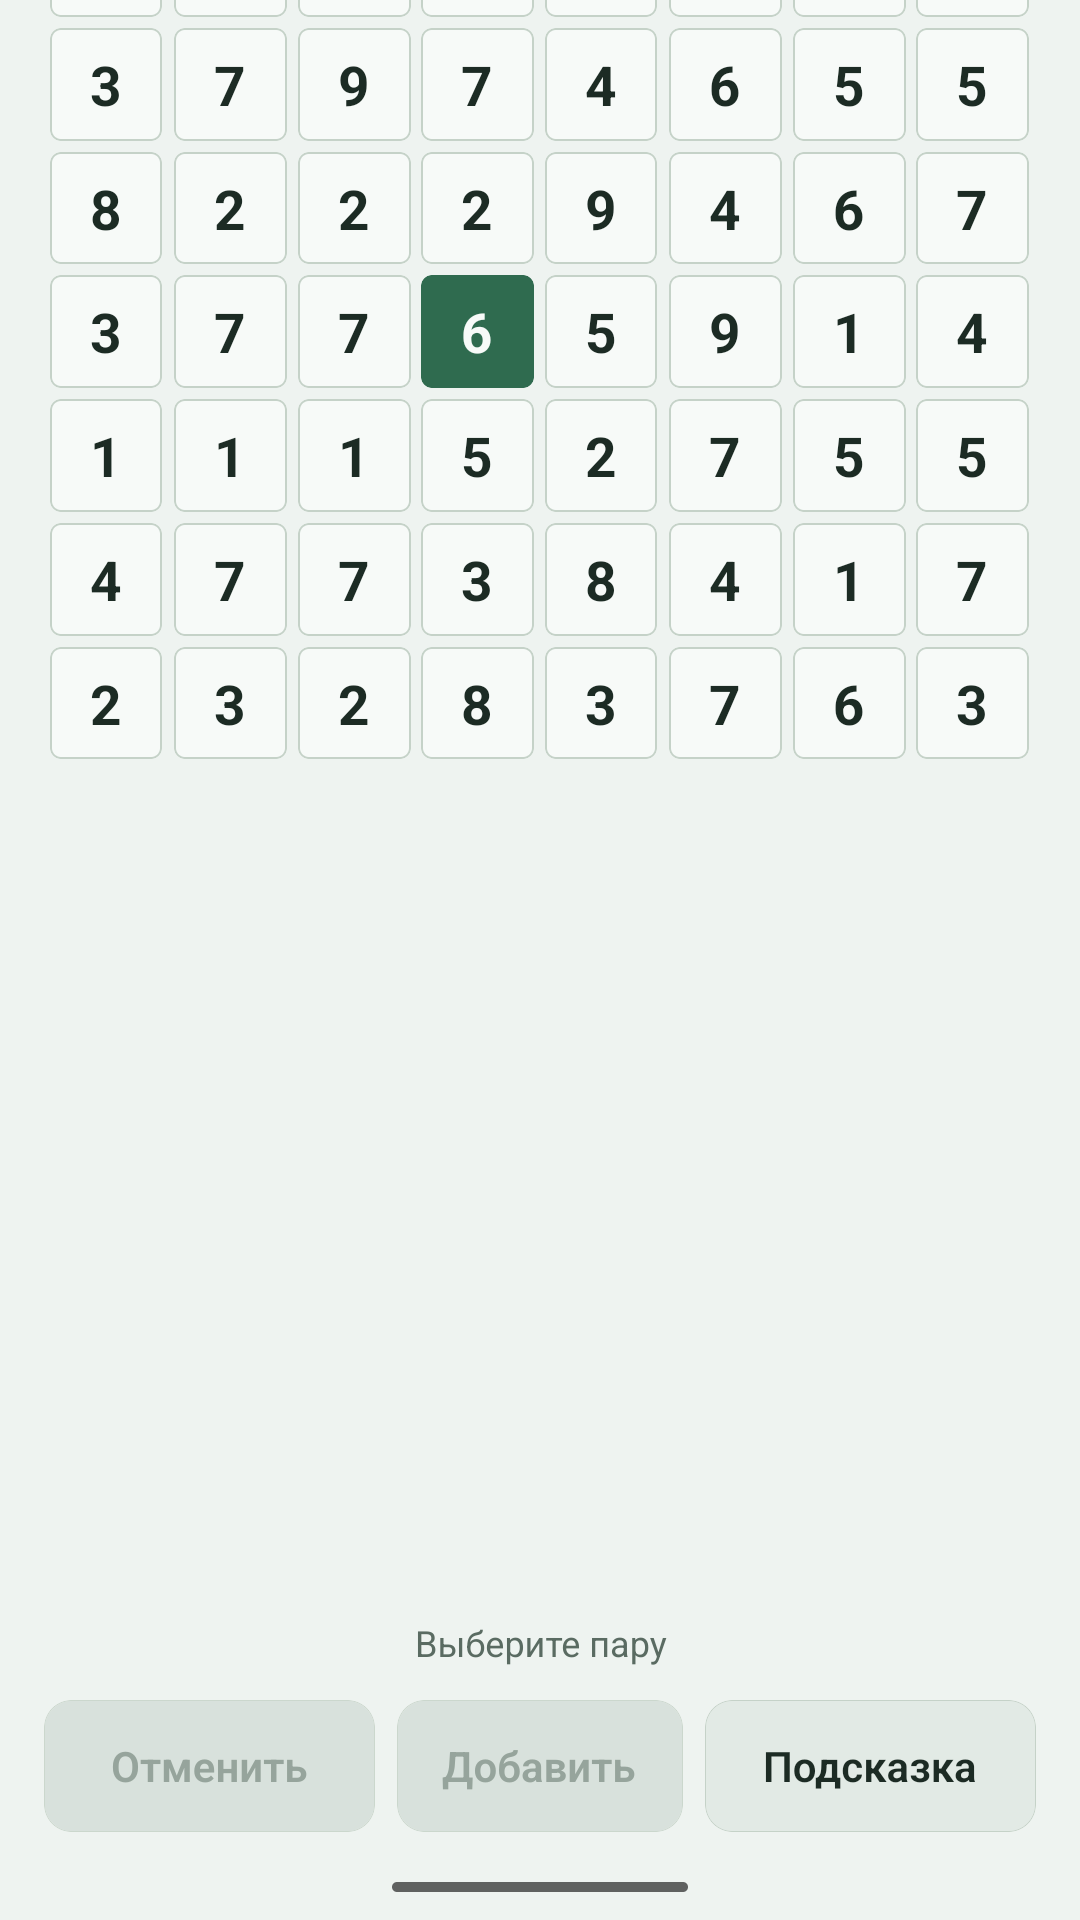
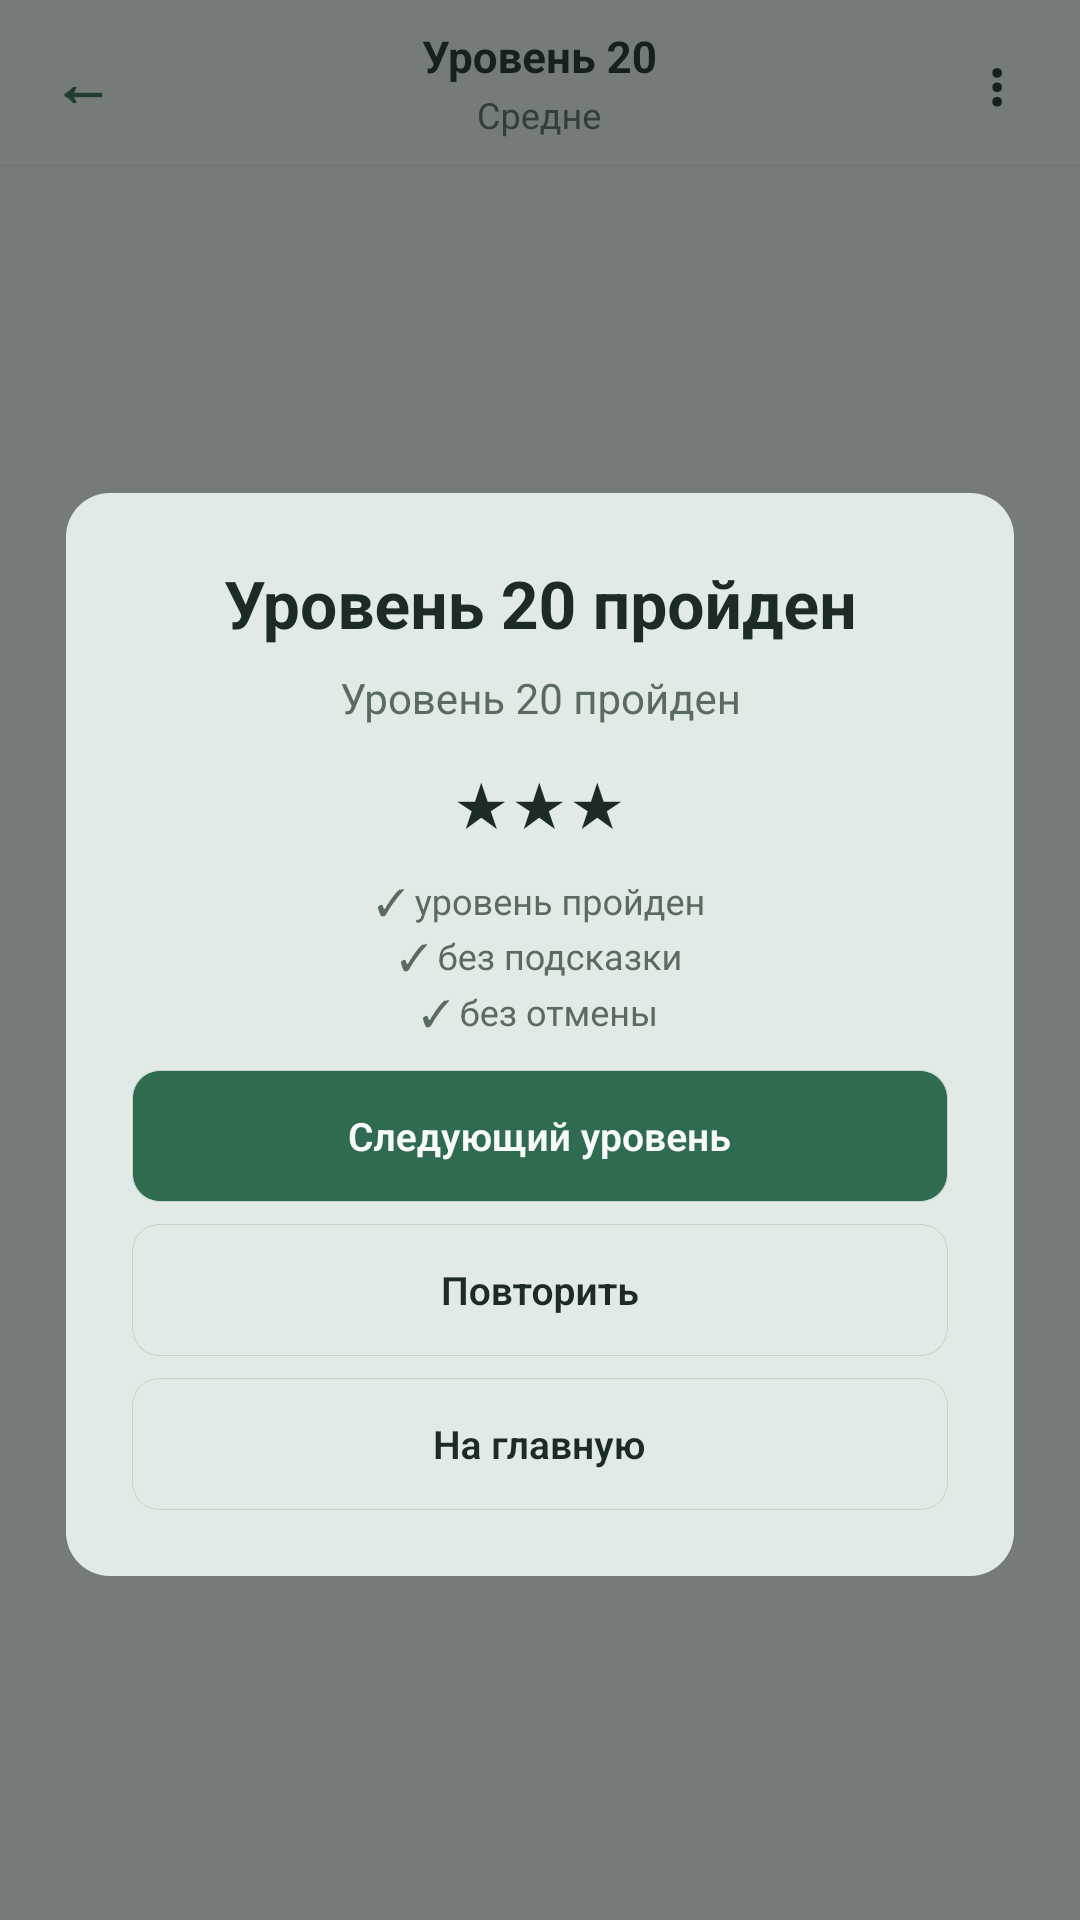
chore(release): genuine completion screenshot and signing path docs
Replace the duplicate match-action capture with a real three-star completion
overlay, refresh Levels near the frontier with star variety, and document
the approved external keystore location for this upload.

diff --git a/store-assets/docs/SIGNING_LOCAL.md b/store-assets/docs/SIGNING_LOCAL.md
@@ -1,23 +1,39 @@
 # Local production signing (outside Git)
 
-Canonical path for this app (create if missing):
+Canonical path for this app (ForestMusic pattern
+`D:\secure\android-signing\<app>\`):
 
 ```text
-D:\PetProject\secure\numberMatchGameRuStore\
+D:\secure\android-signing\numberMatchGame\
   number-match-release.jks
   keystore.properties
+  password.txt
 ```
+
+Do not move or recreate the keystore. Do not copy the JKS into the
+repository. Read `keystore.properties` locally only.
 
 `keystore.properties` keys (values never committed):
 
 ```properties
-storeFile=D:\\PetProject\\secure\\numberMatchGameRuStore\\number-match-release.jks
+storeFile=D:/secure/android-signing/numberMatchGame/number-match-release.jks
 storePassword=***
 keyAlias=number-match
 keyPassword=***
 ```
 
-Wire into generated `android/app/build.gradle` release signingConfig after `npx expo prebuild --platform android`, pointing at this external properties file. Do not commit `android/`, JKS, or properties.
+Alias: `number-match`
+
+Expected certificate SHA-256 (verify after every release AAB):
+
+```text
+25:12:22:BF:98:65:B7:C9:30:4B:0B:12:83:1F:36:59:4C:DB:05:13:02:77:14:5A:F7:1C:A0:30:39:53:07:F2
+```
+
+Wire into generated `android/app/build.gradle` release signingConfig after
+`npx expo prebuild --platform android --clean`, loading the external
+properties file by absolute path. Do not commit `android/`, JKS,
+properties, or passwords.
 
 Build:
 
@@ -27,7 +43,10 @@ npx expo prebuild --platform android --clean
 # apply signingConfig to android/app/build.gradle (local only)
 cd android
 .\gradlew.bat bundleRelease --console=plain
-copy app\build\outputs\bundle\release\app-release.aab ..\release-artifacts\number-match-1.0.0-1.aab
+New-Item -ItemType Directory -Force ..\release-artifacts | Out-Null
+Copy-Item app\build\outputs\bundle\release\app-release.aab `
+  ..\release-artifacts\pairs-chisel-number-match-1.0.0-1.aab
 ```
 
-Then verify with bundletool and write `.sha256` sidecar.
+Then verify package / versionName / versionCode / signer with bundletool
+and write the `.sha256` sidecar.
